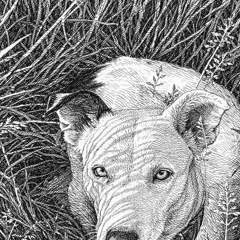
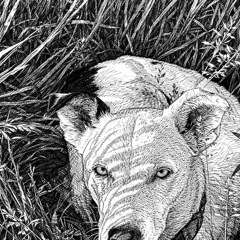
Fast paints (20s, bolder washes), striation-free edges with a feathered hand-off, oil uncapped, 2-character usernames, names refresh on save (Emerald, Nov 20)
Claude-Session: https://claude.ai/code/session_01Ut7Si8VR22kDqez4DUtcqV

diff --git a/apps/api/src/lib/paintPhoto.ts b/apps/api/src/lib/paintPhoto.ts
@@ -41,13 +41,14 @@ const MAX_STORED_PX = 2048
 
 export const MEDIA: Medium[] = ['watercolour', 'oil', 'ink', 'risograph']
 
-// How far the strength slider may travel, per medium. The oil stops early on
-// purpose: past about 60% the model starts leaving pale stroke marks on skin
-// no matter what the prompt says, so the cap enforces her rule where the
-// words alone do not. Her chosen default is 25.
+// How far the strength slider may travel, per medium. Oil UNCAPPED Nov 20 on
+// her word: the 60 cap guarded against the OLD painter's thick slabs on
+// faces; the current painter puts fine strokes on faces and thick ones in
+// the scenery on its own (see design/oil-reference-dog.png), and the cap was
+// why oil read as "weird and blurry" — a full oil painting was unreachable.
 export const MEDIUM_LIMITS: Record<Medium, { max: number; default: number }> = {
   watercolour: { max: 100, default: 75 },
-  oil: { max: 60, default: 25 },
+  oil: { max: 100, default: 75 },
   ink: { max: 100, default: 85 },
   risograph: { max: 100, default: 85 },
 }
@@ -88,14 +89,14 @@ async function paint(photo: Buffer, medium: Medium): Promise<Buffer> {
   form.append('prompt', PROMPTS[medium])
   form.append('size', 'auto')
   form.append('n', '1')
-  // QUALITY HIGH, and it is the single biggest lever here (Emerald, Nov 19).
-  // Left unset the API picks something lower and the result comes back muddy
-  // and dark — that was the whole gap between our renders and the one she
-  // got out of ChatGPT. It costs roughly three times as much per image and
-  // it is worth every cent; without it the feature is not worth shipping.
-  form.append('quality', 'high')
-  // Fidelity high is what stops it redrawing her face. It only reads as
-  // "too photographic" when quality high is MISSING — see note 1 above.
+  // NO quality setting, on purpose (Emerald, Nov 20: "implement the fast
+  // version"). Side-by-side on her dog AND a family photo, the default came
+  // back as bold as the "high" renders (the watercolour arguably bolder),
+  // in 17-21s instead of 40-60s, at a third of the cost. The old "muddy
+  // without quality high" finding belonged to chatgpt-image-latest, not to
+  // this model. Sheets from the bake-off: scratchpad judge-dog/judge-family.
+  //
+  // Fidelity high is what stops it redrawing her face. Non-negotiable.
   form.append('input_fidelity', 'high')
   const r = await fetch('https://api.openai.com/v1/images/edits', {
     method: 'POST', headers: { Authorization: `Bearer ${key}` }, body: form,
@@ -185,14 +186,17 @@ export async function registerToPhoto(painted: Buffer, photo: Buffer): Promise<B
   // box `scale` of the full size, centred `d` away from the middle, which is
   // then stretched back to fill the frame.
   //
-  // The painting is padded first so the box can sit partly outside the
-  // original edges, which happens whenever the scale is above 1. Getting
-  // this wrong is what made the first version a silent no-op.
   // Work at the LARGER of the two sizes. Registering down to the photo's
-  // pixel size sanded the brushwork straight off: a 1024px painting shrunk to
-  // a 448px photo came back looking like a retouched snapshot, which is
-  // exactly what she kept telling me about (Emerald, Nov 19). The painting's
-  // own resolution is where its texture lives, so that is what we keep.
+  // pixel size sanded the brushwork straight off (Emerald, Nov 19): the
+  // painting's own resolution is where its texture lives.
+  //
+  // NO PADDING, EVER. The first version padded the painting by smearing its
+  // edge pixels outward so the box could land partly outside, and whenever
+  // the scale ran above 1 those smears were kept in the final picture — her
+  // "weird striations around the edge" (Emerald, Nov 20, build 66 feedback).
+  // Now only REAL painting pixels are used, and any sliver at the edge the
+  // painting cannot reach is backfilled with the photo itself, which blends
+  // invisibly at every slider position.
   const pMeta = await sharp(photo).metadata()
   const aMeta = await sharp(painted).metadata()
   const pw = pMeta.width ?? 1024
@@ -200,28 +204,60 @@ export async function registerToPhoto(painted: Buffer, photo: Buffer): Promise<B
   const scaleUp = Math.max(1, (aMeta.width ?? pw) / pw)
   const W = Math.round(pw * scaleUp)
   const H = Math.round(ph * scaleUp)
-  const k = W / N // the search ran on thumbnails; scale its offsets up
-
-  const pad = Math.ceil(W * 0.25)
-  const padded = await sharp(painted)
-    .resize(W, H, { fit: 'fill' })
-    .extend({ top: pad, bottom: pad, left: pad, right: pad, extendWith: 'copy' })
-    .toBuffer()
-
-  const cropW = Math.max(8, Math.round(W * best.scale))
-  const cropH = Math.max(8, Math.round(H * best.scale))
-  const cx = pad + W / 2 + best.dx * k
-  const cy = pad + H / 2 + best.dy * k
+  // The search ran on N×N squished thumbnails, so a horizontal step is W/N
+  // real pixels but a vertical step is H/N. (The old code used W/N for both,
+  // which quietly under-corrected vertical drift on portrait photos.)
+  const s = best.scale
+  const ox = best.dx * (W / N)
+  const oy = best.dy * (H / N)
   const clamp = (v: number, lo: number, hi: number) => (v < lo ? lo : v > hi ? hi : v)
 
-  return sharp(padded)
-    .extract({
-      left: clamp(Math.round(cx - cropW / 2), 0, W + 2 * pad - cropW),
-      top: clamp(Math.round(cy - cropH / 2), 0, H + 2 * pad - cropH),
-      width: cropW,
-      height: cropH,
-    })
+  const paintFull = await sharp(painted).resize(W, H, { fit: 'fill' }).toBuffer()
+
+  // Where in the OUTPUT the real painting can supply pixels.
+  const x0 = clamp(Math.ceil((0 - W / 2 - ox) / s + W / 2), 0, W - 8)
+  const x1 = clamp(Math.floor((W - W / 2 - ox) / s + W / 2), x0 + 8, W)
+  const y0 = clamp(Math.ceil((0 - H / 2 - oy) / s + H / 2), 0, H - 8)
+  const y1 = clamp(Math.floor((H - H / 2 - oy) / s + H / 2), y0 + 8, H)
+  const outW = x1 - x0
+  const outH = y1 - y0
+
+  // The painting region that maps onto that rectangle.
+  const px = clamp(Math.round((x0 - W / 2) * s + W / 2 + ox), 0, W - 8)
+  const py = clamp(Math.round((y0 - H / 2) * s + H / 2 + oy), 0, H - 8)
+  const rw = clamp(Math.round(outW * s), 8, W - px)
+  const rh = clamp(Math.round(outH * s), 8, H - py)
+
+  const region = await sharp(paintFull)
+    .extract({ left: px, top: py, width: rw, height: rh })
+    .resize(outW, outH, { fit: 'fill' })
+    .toBuffer()
+
+  // Feather the painting into the photo wherever a sliver was trimmed, so
+  // the hand-off is a soft fade rather than a visible straight seam. Sides
+  // that reach the true edge of the frame stay crisp.
+  const F = Math.max(12, Math.round(W * 0.015))
+  const alpha = Buffer.alloc(outW * outH, 255)
+  const fadeL = x0 > 0, fadeR = x1 < W, fadeT = y0 > 0, fadeB = y1 < H
+  for (let y = 0; y < outH; y++) {
+    for (let x = 0; x < outW; x++) {
+      let a = 1
+      if (fadeL && x < F) a = Math.min(a, x / F)
+      if (fadeR && outW - 1 - x < F) a = Math.min(a, (outW - 1 - x) / F)
+      if (fadeT && y < F) a = Math.min(a, y / F)
+      if (fadeB && outH - 1 - y < F) a = Math.min(a, (outH - 1 - y) / F)
+      if (a < 1) alpha[y * outW + x] = Math.round(a * 255)
+    }
+  }
+  const feathered = await sharp(region)
+    .removeAlpha()
+    .joinChannel(alpha, { raw: { width: outW, height: outH, channels: 1 } })
+    .png()
+    .toBuffer()
+
+  return sharp(photo)
     .resize(W, H, { fit: 'fill' })
+    .composite([{ input: feathered, left: x0, top: y0 }])
     .png()
     .toBuffer()
 }

diff --git a/apps/web/src/pages/signup/PickHandlePage.tsx b/apps/web/src/pages/signup/PickHandlePage.tsx
@@ -37,7 +37,7 @@ export default function PickHandlePage() {
 
   // Live availability check (debounced)
   useEffect(() => {
-    if (!/^[a-z0-9_]{3,20}$/.test(handle)) { setStatus('idle'); return }
+    if (!/^[a-z0-9_]{2,20}$/.test(handle)) { setStatus('idle'); return }
     setStatus('checking')
     const t = setTimeout(async () => {
       try {
@@ -56,7 +56,9 @@ export default function PickHandlePage() {
     setSaving(true)
     try {
       await api.put('/users/me', { username: handle })
-      refreshUser()
+      // Await it, or the next screen greets them by the OLD name — her
+      // "the one that is populating here at the top" (Nov 18 feedback).
+      await refreshUser()
       setSetupNext('/signup/address')
       navigate('/signup/address')
     } catch (err: any) {
@@ -162,14 +164,14 @@ export default function PickHandlePage() {
 
         <button
           onClick={save}
-          disabled={saving || status === 'taken' || !/^[a-z0-9_]{3,20}$/.test(handle)}
+          disabled={saving || status === 'taken' || !/^[a-z0-9_]{2,20}$/.test(handle)}
           style={{
             marginTop: 'auto', height: '56px', borderRadius: '28px', border: '2px solid #B4897A', boxSizing: 'border-box',
             cursor: saving ? 'not-allowed' : 'pointer',
             background: saving ? 'var(--light-blush)' : 'var(--btn)', color: 'var(--ink)',
             display: 'flex', alignItems: 'center', justifyContent: 'center',
             fontFamily: 'var(--font-body)', fontSize: '15px', fontWeight: 700, letterSpacing: '0.08em',
-            opacity: status === 'taken' || !/^[a-z0-9_]{3,20}$/.test(handle) ? 0.5 : 1,
+            opacity: status === 'taken' || !/^[a-z0-9_]{2,20}$/.test(handle) ? 0.5 : 1,
           }}
         >
           {saving ? 'SAVING…' : 'CONTINUE'}

diff --git a/apps/api/src/routes/users.ts b/apps/api/src/routes/users.ts
@@ -39,7 +39,9 @@ usersRouter.post('/match-contacts', requireAuth, async (req: AuthRequest, res: R
 // Must be registered BEFORE '/:username' so "handle-check" isn't read as a
 // username parameter.
 
-const HANDLE_RE = /^[a-z0-9_]{3,20}$/
+// Two characters is enough — her rule (TestFlight, Nov 18: "maybe we just
+// say that it needs to be at least two characters").
+const HANDLE_RE = /^[a-z0-9_]{2,20}$/
 
 usersRouter.get('/handle-check', requireAuth, async (req: AuthRequest, res: Response) => {
   const u = String(req.query.u ?? '').trim().toLowerCase()
@@ -140,7 +142,7 @@ const updateSchema = z.object({
   displayName: z.string().min(1).max(50).optional(),
   username: z
     .string()
-    .min(3, 'Handles need at least 3 characters.')
+    .min(2, 'Handles need at least 2 characters.')
     .max(20, 'Handles max out at 20 characters.')
     .regex(/^[a-z0-9_]+$/, 'Handles can only use lowercase letters, numbers, and underscores.')
     .optional(),

diff --git a/apps/api/src/routes/auth.ts b/apps/api/src/routes/auth.ts
@@ -28,7 +28,7 @@ const signUpSchema = z.object({
   displayName: z.string().min(1, 'Please enter your name.').max(50),
   username: z
     .string()
-    .min(3, 'Username must be at least 3 characters.')
+    .min(2, 'Username must be at least 2 characters.')
     .max(30)
     .regex(/^[a-z0-9_]+$/, 'Username can only contain lowercase letters, numbers, and underscores.'),
   birthday: z.string().optional(),
